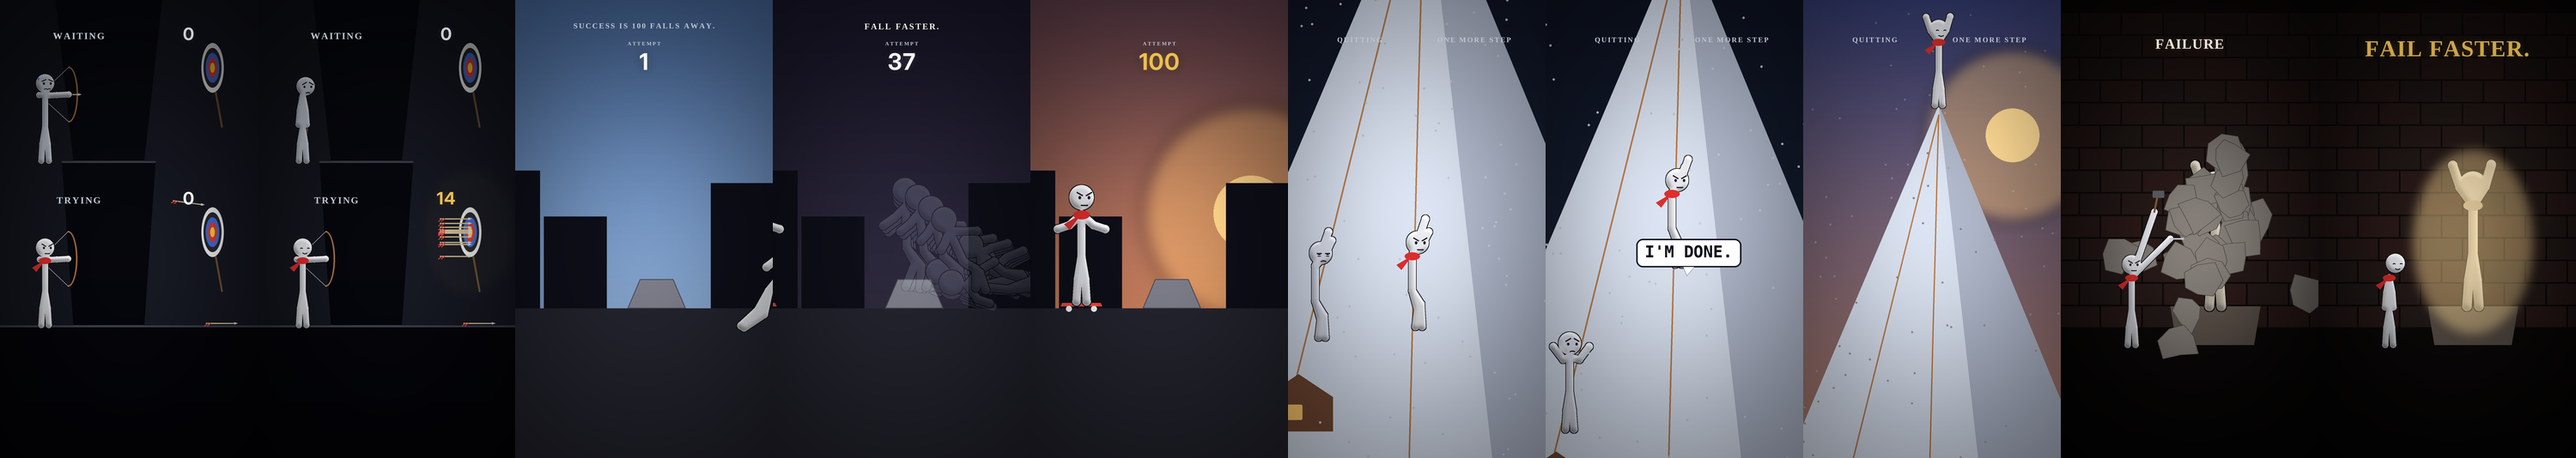
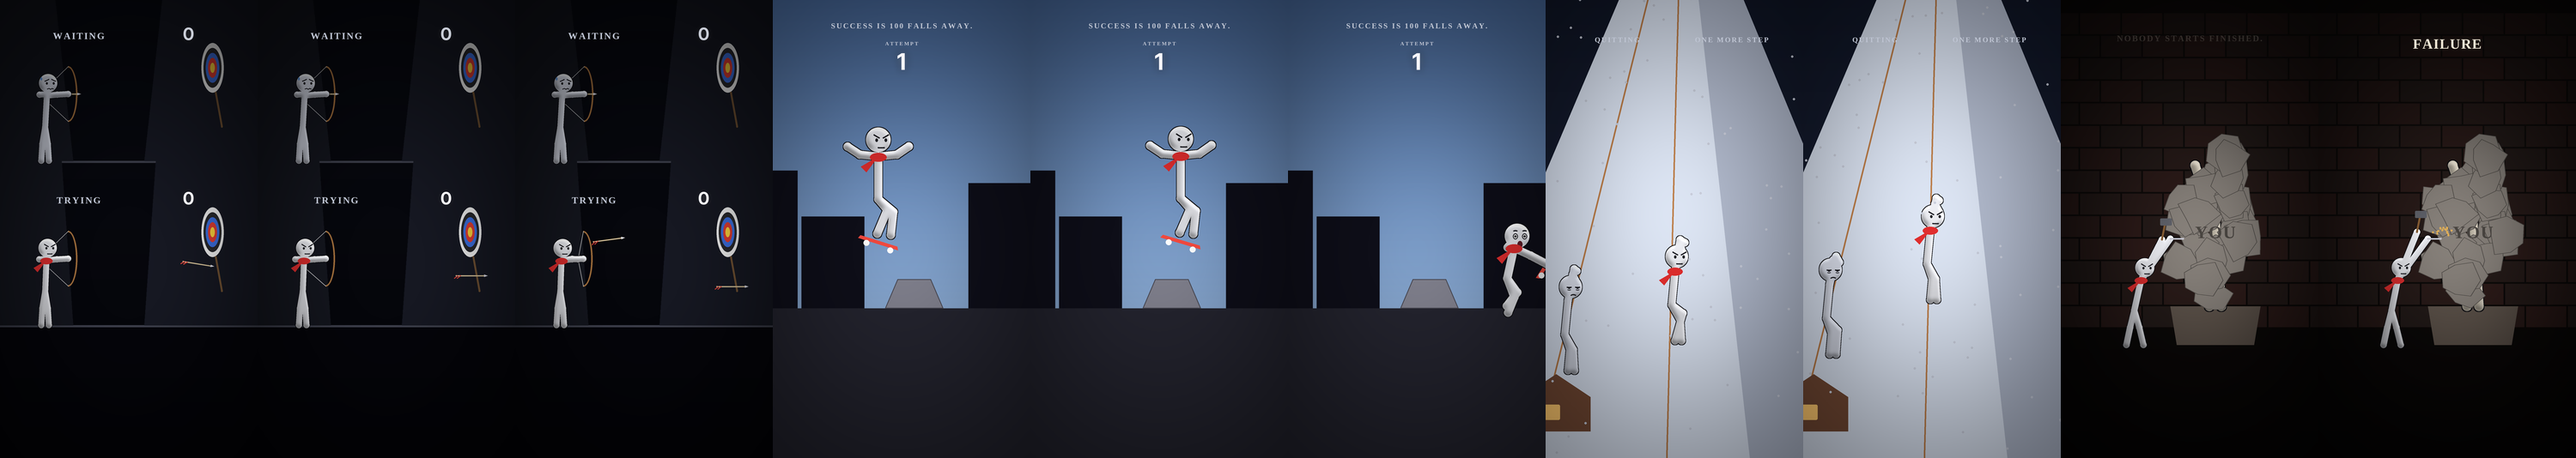
Fail Faster v2: motion rework (render in progress)
Claude-Session: https://claude.ai/code/session_01YHEweCRu4KjpeQQTJaUupp

diff --git a/stick/failfast.py b/stick/failfast.py
@@ -39,6 +39,26 @@ SERIF = "/usr/share/fonts/truetype/liberation/LiberationSerif-Bold.ttf"
 PALE = (190, 196, 210)
 
 
+def ease_back(x, k=1.7):
+    """ease out with a little overshoot"""
+    x = clamp(x) - 1
+    return 1 + (k + 1) * x ** 3 + k * x ** 2
+
+
+def alive(pose, t, amp=1.0, seed=0.0):
+    """breathing + weight shift: nobody stands perfectly still"""
+    b = math.sin(t * 2.4 + seed)
+    w = math.sin(t * 1.3 + seed * 2)
+    q = dict(pose)
+    for k_ in ("head", "neck"):
+        x, y = q[k_]
+        q[k_] = (x + 3 * w * amp, y - 2.5 * b * amp)
+    for k_ in ("el", "hl", "er", "hr"):
+        x, y = q[k_]
+        q[k_] = (x + 1.5 * w * amp, y - 1.5 * b * amp)
+    return q
+
+
 def scene_at(t):
     for k, a, b in SCENES:
         if a <= t < b:
@@ -150,18 +170,29 @@ def target(d, x, y, flash=0.0):
 
 
 def archer(st, d, x, fl, t, mode):
-    bow_x = x + 70
     if mode == "wait":
         shake = 3 * math.sin(t * 40)
-        p = place(dict(STAND, el=(40, -110), hl=(78 + shake, -112), er=(10, -112), hr=(-20, -110)), (x, fl - 113 * S), 1, S)
+        pose = alive(dict(STAND, el=(40, -110), hl=(78 + shake, -112), er=(10, -112), hr=(-20, -110),
+                          head=(8, -148), neck=(4, -106)), t, 1.0)
         expr = "nervous" if t < 6.5 else "sad"
-        if t > 7.0:   # gives up, lowers the bow
-            p = place(dict(STAND, head=(10, -140)), (x, fl - 113 * S), 1, S)
+        if t > 7.0:   # gives up, lowers the bow slowly
+            k = smooth(prog(t, 7.0, 7.6))
+            pose = lerp_pose(pose, alive(dict(STAND, head=(14, -138), neck=(8, -104)), t, 0.6), k)
+        p = place(pose, (x, fl - 113 * S), 1, S)
     else:
-        ph = min((t - 0.35) % 0.4 / 0.4, 1.0) if t >= 0.35 and t < T_BULL else 1.0
-        draw = smooth(clamp(ph / 0.7))
-        p = place(dict(STAND, el=(40, -110), hl=(78, -112), er=(lerp(40, 10, draw), -112), hr=(lerp(60, -20, draw), -110)),
-                  (x, fl - 113 * S), 1, S)
+        if 0.35 <= t < T_BULL:
+            ph = ((t - 0.35) % 0.4) / 0.4
+        else:
+            ph = 1.0 if t >= T_BULL else 0.0
+        # 0-0.15 nock, 0.15-0.7 draw (ease in), 0.7 release: the string hand snaps back, the body recoils
+        draw = smooth(clamp((ph - 0.12) / 0.55)) ** 1.4
+        rel = clamp((ph - 0.72) / 0.28)
+        snap = math.sin(math.pi * min(1, rel * 2)) * (1 - rel)
+        hrx = lerp(60, -20, draw) if ph < 0.72 else lerp(-20, -40, ease_back(rel)) + 30 * rel
+        lean = -6 * snap
+        pose = dict(STAND, el=(40, -110 + 6 * snap), hl=(78 - 8 * snap, -112 + 4 * snap), er=(lerp(40, 10, draw), -112),
+                    hr=(hrx, -110 - 10 * snap), head=(8 + lean, -148), neck=(4 + lean * 0.6, -106))
+        p = place(alive(pose, t, 0.6, 1.0), (x, fl - 113 * S), 1, S)
         expr = "happy" if t >= T_BULL + 0.2 else "determined"
     hx, hy = p["hl"]
     d.arc(((hx - 30) * K, (hy - 90) * K, (hx + 30) * K, (hy + 90) * K), 270, 90, fill=(160, 110, 60, 255), width=int(5 * K))
@@ -246,28 +277,39 @@ def sky_cols(u):
 def skater(v, success, seed=0):
     """pose + hip + board for one attempt, v 0..1"""
     rng = np.random.default_rng(seed)
-    x = lerp(120, 900, v)
+    x = lerp(120, 900, smooth(clamp(v * 1.05)) * 0.35 + v * 0.65)
     gy = FLOOR
-    jump = 0.0
-    if 0.38 < v < 0.66:
-        jump = math.sin(math.pi * (v - 0.38) / 0.28) * 190
-    crouch = dict(STAND, kl=(20, 40), fl=(-6, 100), kr=(36, 46), fr=(30, 104), el=(-30, -80), hl=(-60, -60),
-                  er=(30, -90), hr=(70, -80))
+    J0, J1 = 0.38, 0.66
+    jump = math.sin(math.pi * (v - J0) / (J1 - J0)) * 200 if J0 < v < J1 else 0.0
+    ride = dict(STAND, el=(-34, -84), hl=(-66, -66), er=(34, -84), hr=(66, -70), kl=(-4, 54), fl=(-12, 112), kr=(14, 54), fr=(22, 112))
+    if v < 0.26:          # kick-pushing
+        k = math.sin(v * 2 * math.pi * 3)
+        ride = dict(ride, kr=(14 - 30 * max(0, k), 56 - 16 * max(0, k)), fr=(22 - 60 * max(0, k), 112 + 10 * max(0, k)),
+                    head=(10, -146), neck=(6, -104))
+    crouch_k = smooth(prog(v, 0.28, J0)) * (1 - smooth(prog(v, J0, J0 + 0.05)))    # anticipation
+    tuck = math.sin(math.pi * clamp((v - J0) / (J1 - J0))) if J0 < v < J1 else 0.0
+    land = math.sin(math.pi * clamp((v - J1) / 0.1)) if v > J1 else 0.0              # squash on landing
+    crouch = dict(ride, kl=(26, 34), fl=(-4, 100), kr=(40, 40), fr=(30, 104), head=(14, -128), neck=(8, -90))
+    air = dict(ride, kl=(30, 20), fl=(0, 80), kr=(44, 26), fr=(34, 84), el=(-50, -120), hl=(-80, -150), er=(50, -120), hr=(80, -150))
+    pose = lerp_pose(lerp_pose(ride, crouch, max(crouch_k, land * (1 if success else 0))), air, tuck)
     board = (x, gy - 8 - jump, 0.0)
     if success or v < 0.6:
-        pose = crouch if jump > 20 else dict(STAND, el=(-30, -80), hl=(-60, -70), er=(30, -80), hr=(60, -70))
-        hip = (x, gy - 16 - 113 * S + (20 if jump > 20 else 0) - jump)
-        if jump > 20:
-            board = (x, gy - 16 - jump + 2, 0.3 * math.sin(math.pi * (v - 0.38) / 0.28 * 2))
+        drop = 26 * max(crouch_k, land if success else 0)
+        hip = (x, gy - 16 - 113 * S + drop - jump + 26 * tuck)
+        if jump > 0:
+            board = (x, gy - 16 - jump + 2 + 20 * tuck, 0.5 * math.sin(math.pi * tuck) * (1 if seed % 2 else -1))
         return pose, hip, board, 0.0
-    # the fall: tumble forward
-    w = clamp((v - 0.6) / 0.25)
-    rot = w * (2.2 + rng.uniform(-0.3, 0.3))
-    fx = lerp(x, x + 60, w)
-    hip = (fx, lerp(gy - 113 * S - 40, gy - 40, w))
-    pose = lerp_pose(crouch, {"head": (-150, -10), "neck": (-108, -6), "el": (-80, 30), "hl": (-46, 40), "er": (-80, -44),
-                              "hr": (-40, -70), "kl": (56, -24), "fl": (113, -2), "kr": (56, -6), "fr": (113, 6)}, w)
-    board = (x + 140 * w + rng.uniform(0, 60), gy - 8 - 80 * math.sin(math.pi * w), w * 6)
+    # the fall: the board flies out, he tumbles and slides
+    w = clamp((v - 0.6) / 0.3)
+    ew = 1 - (1 - w) ** 2
+    rot = ew * (1.9 + rng.uniform(-0.3, 0.4))
+    fx = x + 120 * ew
+    hip = (fx, lerp(gy - 113 * S - 30, gy - 34, ew ** 0.7))
+    flail = math.sin(w * 18) * (1 - w)
+    pose = lerp_pose(dict(air, hl=(-90, -120 + 40 * flail), hr=(90, -160 - 40 * flail)),
+                     {"head": (-150, -10), "neck": (-108, -6), "el": (-80, 30), "hl": (-46, 40), "er": (-80, -44),
+                      "hr": (-40, -70), "kl": (56, -24), "fl": (113, -2), "kr": (56, -6), "fr": (113, 6)}, ew)
+    board = (x + 200 * ew + rng.uniform(0, 60), gy - 8 - 110 * math.sin(math.pi * min(1, w * 1.3)), w * 7)
     return pose, hip, board, rot
 
 
@@ -341,10 +383,29 @@ def slope_pt(s, side):
     return lerp(x0, 560, s), lerp(FLOOR + 600, 360, s)
 
 
+CLIMB_P = 0.7     # one pull
+
+
 def climber_pose(t):
-    a = math.sin(t * 7)
-    return dict(STAND, el=(20, -150 - 10 * a), hl=(40, -200 - 20 * a), er=(30, -150 + 10 * a), hr=(50, -200 + 20 * a),
-                kl=(16, 50 + 10 * a), fl=(10, 110), kr=(26, 50 - 10 * a), fr=(30, 110), head=(16, -148))
+    ph = (t % CLIMB_P) / CLIMB_P
+    side = int(t / CLIMB_P) % 2
+    reach = smooth(clamp(ph / 0.45))              # one hand reaches up...
+    pull = smooth(clamp((ph - 0.45) / 0.55))      # ...then he pulls himself up
+    hi, lo = (40, -214), (30, -150)
+    a_up = (lerp(lo[0], hi[0], reach), lerp(lo[1], hi[1], reach) + 50 * pull)
+    a_dn = (lerp(hi[0], lo[0], 0.3 + 0.7 * pull), lerp(hi[1] + 50, lo[1], 0.3 + 0.7 * pull))
+    hl, hr = (a_up, a_dn) if side == 0 else (a_dn, a_up)
+    kstep = math.sin(math.pi * pull)
+    return dict(STAND, hl=hl, hr=hr, el=((hl[0]) * 0.5 + 6, (hl[1] - 104) * 0.5 - 52), er=((hr[0]) * 0.5 + 10, (hr[1] - 104) * 0.5 - 52),
+                kl=(16 + 18 * kstep * (side == 0), 46 - 20 * kstep * (side == 0)), fl=(10, 110),
+                kr=(26 + 18 * kstep * (side == 1), 46 - 20 * kstep * (side == 1)), fr=(30, 110),
+                head=(18 - 6 * pull, -146 - 4 * pull), neck=(10, -104))
+
+
+def climb_progress(t):
+    """advances in pulls, not a smooth slide"""
+    n = t / CLIMB_P
+    return (int(n) + smooth(clamp(((n % 1) - 0.45) / 0.55))) * CLIMB_P
 
 
 def mountain(u):
@@ -369,7 +430,7 @@ def mountain(u):
     rrect(d, (cx - 30, cy - 70, cx + 10, cy - 30), 4, (255, 200, 110, 255))
     # QUITTING
     if u < T_QUIT:
-        s = 0.18 + 0.12 * (u / T_QUIT)
+        s = 0.18 + 0.12 * clamp(climb_progress(u) / T_QUIT)
         p = place(climber_pose(u), slope_pt(s, 0), 1, S * 0.9)
         plain(st, p, "tired", u)
     else:
@@ -383,7 +444,7 @@ def mountain(u):
             p = place(dict(STAND, el=(-20, -100), hl=(-50, -140), er=(30, -100), hr=(60, -140)), (x, y), 1, S * 0.9)
         plain(st, p, "sad" if w < 1 else "happy", u)
     # ONE MORE STEP
-    s = min(1.0, 0.18 + 0.82 * smooth(prog(u, 0.0, T_TOP)) ** 1.2)
+    s = min(1.0, 0.18 + 0.82 * clamp(climb_progress(u) / T_TOP))
     gust = math.sin(u * 3.1) * 8 * (1 - dawn)
     if u < T_TOP:
         p = place(climber_pose(u + 1), (slope_pt(s, 1)[0] + gust, slope_pt(s, 1)[1]), 1, S * 0.9)
@@ -481,10 +542,18 @@ def sculptor(u):
     # him with hammer and chisel
     if u < T_REVEAL:
         ph = ((u - STRIKE0) % STRIKE_P) / STRIKE_P if u >= STRIKE0 else 0.0
-        lift = math.cos(math.pi * min(1, ph / 0.2)) if ph < 0.2 else math.sin(math.pi * clamp((ph - 0.2) / 0.8))
-        p = place(STAND, (380, FLOOR - 113 * S), 1, S)
+        if ph < 0.14:        # the strike: fast, with a bounce off the chisel
+            lift = 1 - ease_back(ph / 0.14, 2.4)
+        elif ph < 0.3:       # recoil
+            lift = 0.12 * math.sin(math.pi * (ph - 0.14) / 0.16)
+        else:                # slow wind-up
+            lift = smooth((ph - 0.3) / 0.7) ** 1.3
+        lean = 1 - lift
+        pose = alive(dict(STAND, head=(18 + 14 * lean, -146 + 6 * lean), neck=(10 + 10 * lean, -104 + 4 * lean),
+                          kl=(-14, 56), fl=(-26, 113), kr=(16, 56), fr=(30, 113)), u, 0.5)
+        p = place(pose, (380 + 8 * lean, FLOOR - 113 * S), 1, S)
         p = set_arm(p, "l", (500, FLOOR - 330), 1)
-        p = set_arm(p, "r", (lerp(470, 440, lift), lerp(FLOOR - 330, FLOOR - 460, lift)), 1)
+        p = set_arm(p, "r", (lerp(472, 420, lift), lerp(FLOOR - 334, FLOOR - 480, lift)), 1)
         hero(st, p, "plain", 1, "determined", u)
         line(d, [(500, FLOOR - 330), (540, FLOOR - 330)], (190, 190, 200, 255), 5)
         hx_, hy_ = p["hr"]
@@ -541,7 +610,12 @@ def frame(t):
 
 
 def render(i):
-    return frame(i / FPS).tobytes()
+    """3 sub-frames across a 180-degree shutter: real motion blur"""
+    acc = None
+    for k in range(3):
+        f = frame((i + k / 6) / FPS).astype(np.float32)
+        acc = f if acc is None else acc + f
+    return (acc / 3).astype(np.uint8).tobytes()
 
 
 MUSIC = "Crossing the Chasm.mp3"
